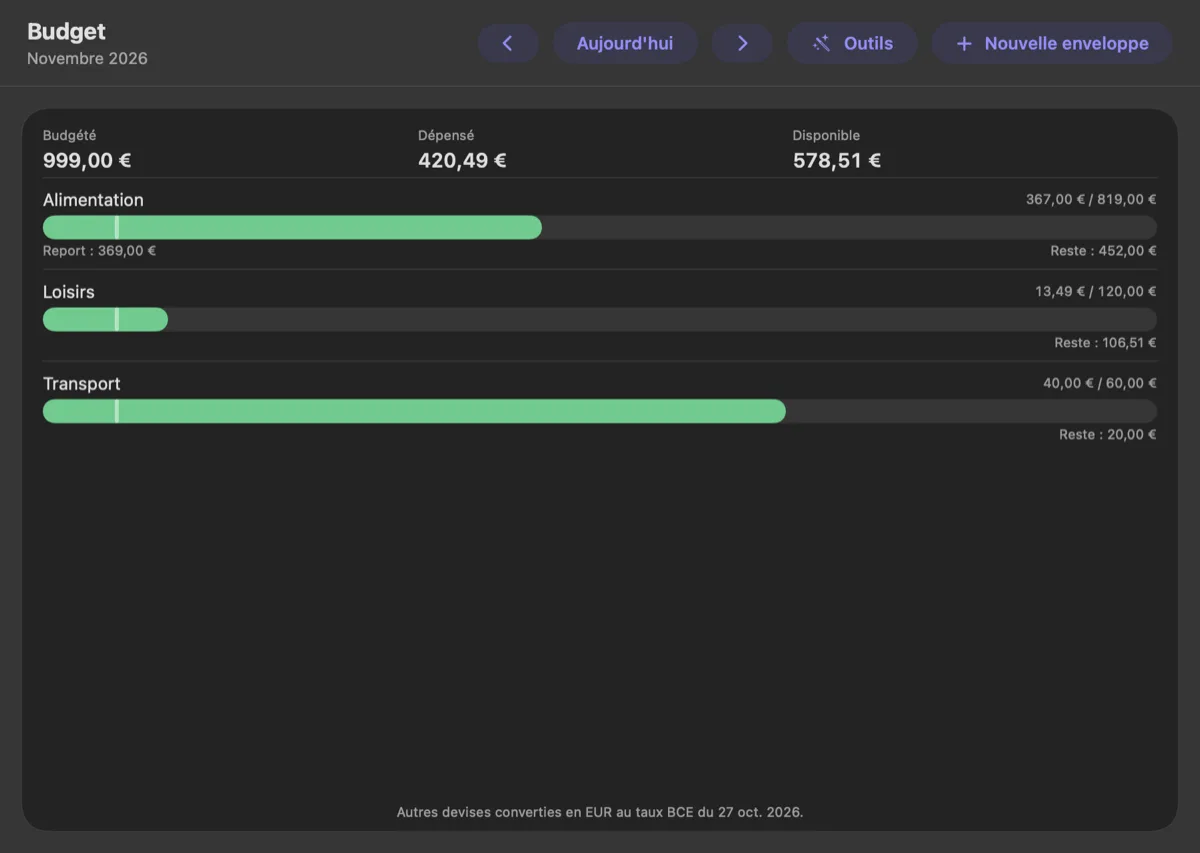
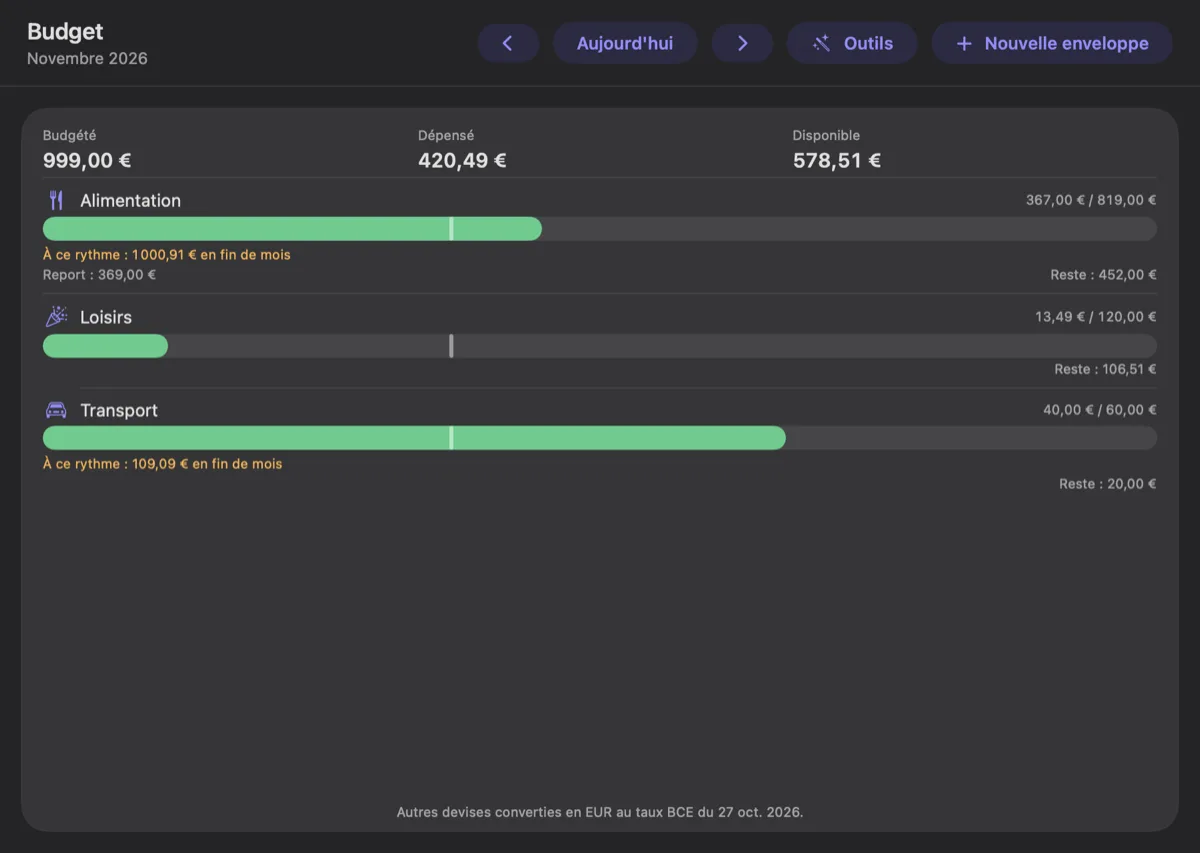
Site: captures de l'app refaites (build 55)

Changed region(s): [[0.0308, 0.2134, 0.9867, 0.5791], [0.8633, 0.2134, 0.9558, 0.2438], [0.0308, 0.0305, 0.0925, 0.061]]

diff --git a/changelog/index.html b/changelog/index.html
@@ -186,5 +186,5 @@ footer{border-top:1px solid var(--line);padding:var(--s5) 0;color:var(--muted);f
 <h3>Corrigé</h3>
 <ul><li>« 12 50 » est refusé au lieu d&#x27;être lu 1250.</li><li>L&#x27;import CSV ouvre bien l&#x27;écran suivant après l&#x27;assistant.</li><li>Siri et Raccourcis ne peuvent plus remplacer un fichier illisible par un registre vide.</li></ul>
 <h3>À tester</h3>
-<ul><li>Importer un relevé CSV de votre banque et enregistrer le profil.</li><li>Taper « 12 50 » dans un montant et vérifier le refus.</li><li>Masquer les montants (⇧⌘H) et parcourir tous les écrans.</li><li>Faire une sauvegarde puis la restaurer depuis Fichier.</li><li>Gérer › Hygiène du registre : chaque « Voir » ouvre les lignes concernées, avec le bandeau « Tout afficher ».</li><li>Catégories : icônes, catégorie Animaux, clic sur une catégorie pour voir ses transactions.</li><li>Modifier une jambe d&#x27;un virement lié (date, montant, note) met à jour l&#x27;autre ; le nom du commerçant est conservé.</li><li>Icônes de catégorie dans les listes, budgets et menus.</li><li>Registre : sélectionner deux lignes de comptes différents → « Lier ces deux lignes ».</li><li>Exemples dans les champs de la transaction ; clic sur une transaction récente du tableau de bord.</li><li>Sauvegardes simplifiées : copies automatiques sur ce Mac et copie iCloud seulement (Fichier → Sauvegardes…). Bouton Réglages de la barre du haut retiré.</li><li>Lier deux lignes : l&#x27;achat et le prélèvement partagent nom, catégorie, note et étiquettes.</li><li>Nouveau : écran Logement (Gérer › Logement) : type de bien, situation (location, achat à crédit, propriété payée), coûts par poste, crédit relié, statistiques et conseils.</li><li>Thème sombre graphite (plus de noir pur), interface plus sobre : chiffres plus légers, icônes neutres, carte Patrimoine sans dégradé.</li><li>iPhone : copies automatiques sur l&#x27;appareil et écran Sauvegardes ; lier une ligne depuis sa fiche ; fond graphite sur toutes les listes.</li><li>Les prélèvements liés à un achat PayPal s&#x27;ouvrent dans l&#x27;éditeur complet (nom, catégorie, statut…).</li><li>« À vérifier » ne compte plus que les transactions qui existent encore.</li><li>Fichier › Copier un résumé anonyme (Mac) et Plus › Partager un résumé anonyme (iPhone) : chiffres sans noms ni transactions.</li><li>iCloud : une modification simultanée sur un autre appareil est reprise automatiquement (plus d&#x27;erreur « Error saving record »).</li><li>Registre Mac : VoiceOver lit « Sans catégorie » ; ⌘N désactivé quand tous les comptes sont en lecture seule.</li><li>Le fichier de données passe en version 3 : une app plus ancienne se bloque au lieu d&#x27;effacer le profil Logement ou les liens entre lignes.</li><li>iPhone : copies automatiques exclues de la sauvegarde iCloud de l&#x27;appareil ; catégorie Animaux ajoutée aussi sur iPhone.</li><li>Virements : le compte d&#x27;une jambe n&#x27;est plus modifiable ; la copie entre jambes respecte les comptes partagés en lecture seule.</li></ul></div></div></main>
+<ul><li>Importer un relevé CSV de votre banque et enregistrer le profil.</li><li>Taper « 12 50 » dans un montant et vérifier le refus.</li><li>Masquer les montants (⇧⌘H) et parcourir tous les écrans.</li><li>Faire une sauvegarde puis la restaurer depuis Fichier.</li><li>Gérer › Hygiène du registre : chaque « Voir » ouvre les lignes concernées, avec le bandeau « Tout afficher ».</li><li>Catégories : icônes, catégorie Animaux, clic sur une catégorie pour voir ses transactions.</li><li>Modifier une jambe d&#x27;un virement lié (date, montant, note) met à jour l&#x27;autre ; le nom du commerçant est conservé.</li><li>Icônes de catégorie dans les listes, budgets et menus.</li><li>Registre : sélectionner deux lignes de comptes différents → « Lier ces deux lignes ».</li><li>Exemples dans les champs de la transaction ; clic sur une transaction récente du tableau de bord.</li><li>Sauvegardes simplifiées : copies automatiques sur ce Mac et copie iCloud seulement (Fichier → Sauvegardes…). Bouton Réglages de la barre du haut retiré.</li><li>Lier deux lignes : l&#x27;achat et le prélèvement partagent nom, catégorie, note et étiquettes.</li><li>Nouveau : écran Logement (Gérer › Logement) : type de bien, situation (location, achat à crédit, propriété payée), coûts par poste, crédit relié, statistiques et conseils.</li><li>Thème sombre graphite (plus de noir pur), interface plus sobre : chiffres plus légers, icônes neutres, carte Patrimoine sans dégradé.</li><li>iPhone : copies automatiques sur l&#x27;appareil et écran Sauvegardes ; lier une ligne depuis sa fiche ; fond graphite sur toutes les listes.</li><li>Les prélèvements liés à un achat PayPal s&#x27;ouvrent dans l&#x27;éditeur complet (nom, catégorie, statut…).</li><li>« À vérifier » ne compte plus que les transactions qui existent encore.</li><li>Fichier › Copier un résumé anonyme (Mac) et Plus › Partager un résumé anonyme (iPhone) : chiffres sans noms ni transactions.</li><li>iCloud : une modification simultanée sur un autre appareil est reprise automatiquement (plus d&#x27;erreur « Error saving record »).</li><li>Registre Mac : VoiceOver lit « Sans catégorie » ; ⌘N désactivé quand tous les comptes sont en lecture seule.</li><li>Le fichier de données passe en version 3 : une app plus ancienne se bloque au lieu d&#x27;effacer le profil Logement ou les liens entre lignes.</li><li>iPhone : copies automatiques exclues de la sauvegarde iCloud de l&#x27;appareil ; catégorie Animaux ajoutée aussi sur iPhone.</li><li>Virements : le compte d&#x27;une jambe n&#x27;est plus modifiable ; la copie entre jambes respecte les comptes partagés en lecture seule.</li><li>Budget Mac : l&#x27;avertissement de rythme n&#x27;apparaît plus deux fois sous une enveloppe.</li></ul></div></div></main>
 <footer><div class="wrap"><div class="fcols"><div><b>Pocket Ledger</b>Budget et comptes pour Mac, iPhone et iPad. Gratuit, sans publicité, vos données restent chez vous.</div><div><b>Produit</b><a href="../mac/">Mac</a><a href="../iphone/">iPhone et iPad</a><a href="../features/">Fonctions</a><a href="../security/">Sécurité</a></div><div><b>Ressources</b><a href="../help/">Aide</a><a href="../changelog/">Nouveautés</a><a href="../roadmap/">Feuille de route</a><a href="../accessibility/">Accessibilité</a><a href="../support/">Support</a><a href="../about/">À propos</a></div><div><b>Contact</b><a href="mailto:atxgrp@gmail.com">atxgrp@gmail.com</a></div></div><div class="legal">© 2026 ATX Grp · <a href="../privacy/">Confidentialité</a> · <a href="../terms/">Conditions</a> · <a href="../legal/">Mentions légales</a> · <a href="../credits/">Crédits</a><p>Pocket Ledger est indépendant : il n&#x27;est ni affilié à Apple ni approuvé par Apple. Mac, iPhone, iPad et macOS sont des marques d&#x27;Apple Inc.</p></div></div></footer></body></html>

diff --git a/en/changelog/index.html b/en/changelog/index.html
@@ -186,5 +186,5 @@ footer{border-top:1px solid var(--line);padding:var(--s5) 0;color:var(--muted);f
 <h3>Fixed</h3>
 <ul><li>&quot;12 50&quot; is refused instead of being read as 1250.</li><li>CSV import opens the next screen after the assistant.</li><li>Siri and Shortcuts can no longer replace an unreadable file with an empty ledger.</li></ul>
 <h3>To test</h3>
-<ul><li>Import a CSV statement from your bank and save the profile.</li><li>Type &quot;12 50&quot; in an amount and check it is refused.</li><li>Hide amounts (⇧⌘H) and browse every screen.</li><li>Make a backup and restore it from the File menu.</li><li>Manage › Ledger hygiene: each &quot;View&quot; opens the exact lines concerned, with the &quot;Show all&quot; banner.</li><li>Categories: icons, Pets category, click a category to see its transactions.</li><li>Editing one leg of a linked transfer (date, amount, note) updates the other; the merchant name is kept.</li><li>Category icons in lists, budgets and menus.</li><li>Register: select two lines from different accounts → &quot;Link these two lines&quot;.</li><li>Example prompts in the transaction fields; click a recent transaction on the dashboard.</li><li>Simpler backups: automatic copies on this Mac and the iCloud copy only (File → Backups…). Settings button removed from the top bar.</li><li>Link two lines: the purchase and the debit share name, category, note and tags.</li><li>New: Housing screen (Manage › Housing): property type, situation (rental, purchase with a loan, owned), costs by item, linked loan, statistics and tips.</li><li>Graphite dark theme (no more pure black), calmer interface: lighter figures, neutral icons, Net worth card without gradient.</li><li>iPhone: automatic copies on the device and a Backups screen; link a line from its details; graphite background on every list.</li><li>Debits linked to a PayPal purchase open in the full editor (name, category, status…).</li><li>&quot;To review&quot; only counts transactions that still exist.</li><li>File › Copy an anonymous summary (Mac) and More › Share an anonymous summary (iPhone): figures without names or transactions.</li><li>iCloud: a simultaneous change from another device is retried automatically (no more &quot;Error saving record&quot;).</li><li>Mac register: VoiceOver reads &quot;No category&quot;; ⌘N is off when every account is read-only.</li><li>The data file moves to version 3: an older app now locks itself instead of dropping the Housing profile or the links between lines.</li><li>iPhone: automatic copies are kept out of the device&#x27;s iCloud backup; the Pets category is added on iPhone too.</li><li>Transfers: a leg&#x27;s account can no longer be changed; mirroring between legs respects read-only shared accounts.</li></ul></div></div></main>
+<ul><li>Import a CSV statement from your bank and save the profile.</li><li>Type &quot;12 50&quot; in an amount and check it is refused.</li><li>Hide amounts (⇧⌘H) and browse every screen.</li><li>Make a backup and restore it from the File menu.</li><li>Manage › Ledger hygiene: each &quot;View&quot; opens the exact lines concerned, with the &quot;Show all&quot; banner.</li><li>Categories: icons, Pets category, click a category to see its transactions.</li><li>Editing one leg of a linked transfer (date, amount, note) updates the other; the merchant name is kept.</li><li>Category icons in lists, budgets and menus.</li><li>Register: select two lines from different accounts → &quot;Link these two lines&quot;.</li><li>Example prompts in the transaction fields; click a recent transaction on the dashboard.</li><li>Simpler backups: automatic copies on this Mac and the iCloud copy only (File → Backups…). Settings button removed from the top bar.</li><li>Link two lines: the purchase and the debit share name, category, note and tags.</li><li>New: Housing screen (Manage › Housing): property type, situation (rental, purchase with a loan, owned), costs by item, linked loan, statistics and tips.</li><li>Graphite dark theme (no more pure black), calmer interface: lighter figures, neutral icons, Net worth card without gradient.</li><li>iPhone: automatic copies on the device and a Backups screen; link a line from its details; graphite background on every list.</li><li>Debits linked to a PayPal purchase open in the full editor (name, category, status…).</li><li>&quot;To review&quot; only counts transactions that still exist.</li><li>File › Copy an anonymous summary (Mac) and More › Share an anonymous summary (iPhone): figures without names or transactions.</li><li>iCloud: a simultaneous change from another device is retried automatically (no more &quot;Error saving record&quot;).</li><li>Mac register: VoiceOver reads &quot;No category&quot;; ⌘N is off when every account is read-only.</li><li>The data file moves to version 3: an older app now locks itself instead of dropping the Housing profile or the links between lines.</li><li>iPhone: automatic copies are kept out of the device&#x27;s iCloud backup; the Pets category is added on iPhone too.</li><li>Transfers: a leg&#x27;s account can no longer be changed; mirroring between legs respects read-only shared accounts.</li><li>Mac budget: the pace warning no longer shows twice under an envelope.</li></ul></div></div></main>
 <footer><div class="wrap"><div class="fcols"><div><b>Pocket Ledger</b>Budget and accounts for Mac, iPhone and iPad. Free, ad-free, your data stays with you.</div><div><b>Product</b><a href="../../en/mac/">Mac</a><a href="../../en/iphone/">iPhone and iPad</a><a href="../../en/features/">Features</a><a href="../../en/security/">Security</a></div><div><b>Resources</b><a href="../../en/help/">Help</a><a href="../../en/changelog/">What&#x27;s new</a><a href="../../en/roadmap/">Roadmap</a><a href="../../en/accessibility/">Accessibility</a><a href="../../en/support/">Support</a><a href="../../en/about/">About</a></div><div><b>Contact</b><a href="mailto:atxgrp@gmail.com">atxgrp@gmail.com</a></div></div><div class="legal">© 2026 ATX Grp · <a href="../../en/privacy/">Privacy</a> · <a href="../../en/terms/">Terms</a> · <a href="../../en/legal/">Legal notice</a> · <a href="../../en/credits/">Credits</a><p>Pocket Ledger is independent: it is not affiliated with or endorsed by Apple. Mac, iPhone, iPad and macOS are trademarks of Apple Inc.</p></div></div></footer></body></html>
